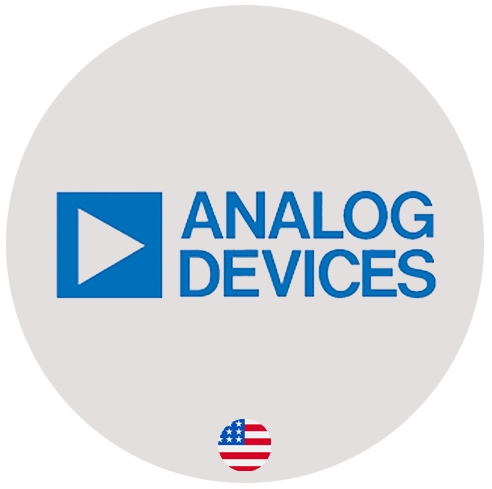
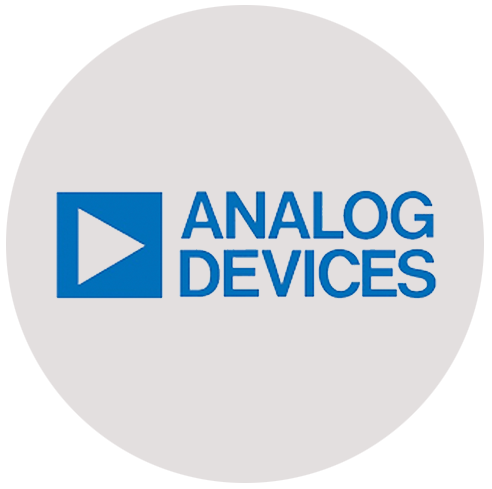
done

Changed region(s): [[0.4268, 0.8589, 0.5488, 0.9816]]

diff --git a/src/app/aboutus/page.js b/src/app/aboutus/page.js
@@ -35,110 +35,92 @@ const leadership = [
     name: "Arvind Thiagarajan",
     position: "Founder, CEO & Chief Inventor",
     image: "/images/company/Arvind.png",
-    description: "Visionary leader driving innovation and growth. Passionate about healthcare transformation.",
-    flags: ["us",'india']
+    description: "Visionary leaderrr driving innovation and growth. Passionate about healthcare transformation."
   },
   {
     name: "Eric Fronk",
     position: "CFO / COO",
     image: "/images/company/EricFronk.png",
-    description: "Driving financial strategy and operational excellence to ensure sustainable growth and quality healthcare delivery.",
-    flags: ["us"]
+    description: "Driving financial strategy and operational excellence to ensure sustainable growth and quality healthcare delivery."
   },
   {
     name: "Venkat Raman",
     position: "Chief of Engineering & SVP, Manufacturing Ops",
     image: "/images/company/Venkat.png",
-    description: "Leading engineering innovation and manufacturing excellence to deliver high-quality, scalable, and efficient solutions.",
-    flags: ["us"]
+    description: "Leading engineering innovation and manufacturing excellence to deliver high-quality, scalable, and efficient solutions."
   },
   {
     name: "Prasad Bal",
     position: "SVP, Partnerships & Product Management",
     image: "/images/company/Prasad.png",
-    description: "Building strategic partnerships and driving product innovation to accelerate growth and deliver exceptional customer value.",
-    flags: ["us"]
+    description: "Building strategic partnerships and driving product innovation to accelerate growth and deliver exceptional customer value."
   },
   {
     name: "Ganesh Kumar B R",
     position: "VP of R&D",
     image: "/images/company/GaneshKumar.png",
-    description: "Driving research and development initiatives to deliver innovative healthcare solutions.",
-    flags: ["india"]
+    description: "Driving research and development initiatives to deliver innovative healthcare solutions."
   }
-
 ];
-
 
 const boardMembers = [
   {
     name: "Arvind Thiagarajan",
     position: "Founder & CEO",
     image: "/images/company/Arvind.png",
-    description: "Serial Entrepreneur & Successful ASX IPO",
-    flags: ["india","us"]
+    description: "Serial Entrepreneur & Successful ASX IPO"
   },
   {
     name: "Arjun Malhotra",
     position:" Board Member",
     image: "/images/company/Arjun-Malhotra.png",
-    description: "Co-Founder of HCL & Headstrong",
-    flags: ["us", "india"]
+    description: "Co-Founder of HCL & Headstrong"
   },
   {
     name: "Guru Gurushankar",
     position: "Board Member",
     image: "/images/company/GuruShankar.png",
-    description: "Successful Corporate Executive & Leader",
-    flags: ["us"]
+    description: "Successful Corporate Executive & Leader"
   },
   {
     name: "Riaz A. Karamali",
     position: "Legal Counsel",
     image: "/images/company/Riaz A Karamali.png",
-    description: "Pillsbury Silicon Valley & San Francisco",
-    flags: ["us"]
+    description: "Pillsbury Silicon Valley & San Francisco"
   },
   {
     name: "Investor & Board Observer",
     position: "ADI (NASDAQ)",
     image: "/images/company/AnalogDevices.png",
-    description: "Market Cap: US$ 80 Billion",
-    flags: ["us"]
+    description: "Market Cap: US$ 80 Billion"
   }
-  
 ];
 
 const medicalAdvisors = [
   {
     name: "Dr. Nelson Schiller",
     position: "MD, FACC, FRCP Professor of Medicine & Anesthesia",
-    image: "/images/company/Dr Nelson.png",
-    flags: ["us"]
+    image: "/images/company/Dr Nelson.png"
   },
   {
     name: "Dr Douglas R Johnston,",
     position: "MD, Chief of Cardiac Surgery, \n Fellow: Cleveland Clinic",
-    image: "/images/company/Dr Douglesx.png",
-    flags: ["us"]
+    image: "/images/company/Dr Dougles.png"
   },
   {
     name: "Dr. Thomas Krummel",
     position: "MD, FACS/FAPP Professor of Co-Director Stanford Byers Center for Bio-design",
-    image: "/images/company/Dr Thomas.png",
-    flags: ["us"]
+    image: "/images/company/Dr Thomas.png"
   },
   {
     name: "Dr. Wael Al Mahmeed",
     position: "MD Leading Cardiologist Owner of City Pharma, UAE",
-    image: "/images/company/Dr Wael.png",
-    flags: ["uae"]
+    image: "/images/company/Dr Wael.png"
   },
   {
     name: "Dr. Raj E G",
     position: "MD, FACC, FSCAI, FASNC, Cardiologist, Hurley Medical Center, Michigan",
-    image: "/images/company/Dr Raj.png",
-    flags: ["us", "india"]
+    image: "/images/company/Dr Raj.png"
   }
 ];
 
@@ -343,7 +325,7 @@ export default function AboutUs() {
 <section className="w-full relative h-screen md:h-[87vh] overflow-hidden flex items-center justify-center">        {/* Background Image */}
         {/* Background Image */}
         <Image
-          src="https://images.unsplash.com/photo-1551076805-e1869033e561?ixlib=rb-4.0.3&auto=format&fit=crop&w=2000&q=80" 
+          src="/images/Heart-with-ECG.png" 
           alt="We Work to Save Lives Banner"
           fill
           className="object-cover absolute inset-0"
@@ -399,50 +381,45 @@ export default function AboutUs() {
         </div>
       </section> */}
 
-      {/* Vision & Mission Section */}
-      <section className="w-full bg-white px-4 py-12 md:px-10 lg:px-32">
-        <div className="max-w-6xl mx-auto flex flex-col gap-10 md:gap-16">
-          {/* Vision */}
-          <div className="flex flex-col md:flex-row items-center md:items-start gap-8 md:gap-12">
-            <div className="w-full md:w-1/3 flex-shrink-0 flex items-center justify-center md:justify-start mb-4 md:mb-0">
-              <span className="text-[#155dfc] text-3xl md:text-5xl  font-bold leading-tight text-center md:text-left">
-                Our Vision
-              </span>
+        <section id="about-details" className="py-20 bg-gradient-to-b from-white to-blue-50/30">
+          <div className="max-w-4xl mx-auto px-6 text-center">
+            <div className="inline-flex items-center justify-center p-3 mb-6 bg-blue-50 rounded-full">
+              <svg className="w-6 h-6 text-[#155dfc]" fill="none" stroke="currentColor" viewBox="0 0 24 24">
+                <path strokeLinecap="round" strokeLinejoin="round" strokeWidth="2" d="M19 21V5a2 2 0 00-2-2H7a2 2 0 00-2 2v16m14 0h2m-2 0h-5m-9 0H3m2 0h5M9 7h1m-1 4h1m4-4h1m-1 4h1m-5 10v-5a1 1 0 011-1h2a1 1 0 011 1v5m-4 0h4" />
+              </svg>
             </div>
-            <div className="w-full md:w-2/3 flex items-center justify-center md:justify-start">
-              <p className="text-base md:text-lg text-gray-800 font-medium text-center md:text-left">
-                To be a global leader in innovative, high-precision Medical devices that empower healthcare professionals and improve patient outcomes through advanced technology, uncompromising quality and continuous innovation.
-              </p>
-            </div>
+            <h2 className="text-3xl md:text-4xl font-bold text-gray-900 mb-6">About HD Medical</h2>
+            <div className="w-24 h-1 bg-[#155dfc] mx-auto mb-8 rounded-full"></div>
+            <p className="text-lg md:text-xl text-gray-700 leading-relaxed font-light">
+              <span className="font-semibold text-[#155dfc]">HD Medical</span> is a global leader in the detection and management of cardiovascular disease.
+              We create clinically validated devices and software that put powerful diagnostic tools into the
+              hands of clinicians — delivering fast, reliable, evidence-based information at the point of care.
+              Our solutions are designed to improve outcomes, streamline workflows and help save lives.
+            </p>
           </div>
-          {/* Mission */}
-          <div className="flex flex-col md:flex-row items-center md:items-start gap-8 md:gap-12">
-            <div className="w-full md:w-1/3 flex justify-center md:justify-start mb-4 md:mb-0">
-              <div className="rounded-[32px] overflow-hidden shadow-lg w-full max-w-xs md:max-w-md">
-                <Image
-                  src="/images/vision_section.png"
-                  alt="Doctor checking patient health"
-                  width={400}
-                  height={400}
-                  className="object-fit w-full h-48 md:h-64"
-                  priority
-                />
-              </div>
-            </div>
-            <div className="w-full md:w-2/3 flex flex-col justify-center">
-              <h2 className="text-[#155dfc] text-2xl md:text-5xl font-bold mb-3 leading-tight text-center md:text-left">
-                Our Mission
-              </h2>
-              <p className="text-base md:text-lg text-gray-800 font-medium mb-2 text-center md:text-left">
-                At HD Medical, we are dedicated to designing, developing, manufacturing and delivering innovative healthcare technology. We strive to exceed customer expectations by maintaining the highest quality standards, adhering to global regulatory requirements and fostering a culture of innovation, integrity and service.
-              </p>
-              <p className="text-base md:text-lg text-gray-800 font-medium text-center md:text-left">
-                Through our commitment to excellence, we aim to make healthcare more accurate, accessible and efficient worldwide.
-              </p>
-            </div>
+        </section>
+
+        {/* Vision & Mission Section */}
+        <section className="mt-16 w-full">
+          <div className="max-w-6xl mx-auto px-4">
+            <Image
+              src="/images/Vision-Mission.png"
+              alt="Vision and Mission"
+              width={1400}
+              height={800}
+              className="w-full h-auto object-contain"
+              priority
+            />
           </div>
-        </div>
-      </section>
+        </section>
+
+        {/* Leadership Team */}
+        <section className="mt-20">
+          <div className="text-center mb-12">
+            <h2 className="text-3xl font-bold text-gray-900">Our Team</h2>
+            <div className="w-20 h-1 bg-[#17a6e0] mx-auto mt-4 rounded-full"></div>
+          </div>
+        </section>
 
       {/* Leadership Section */}
       <Section title="Our Leadership" people={leadership} />
